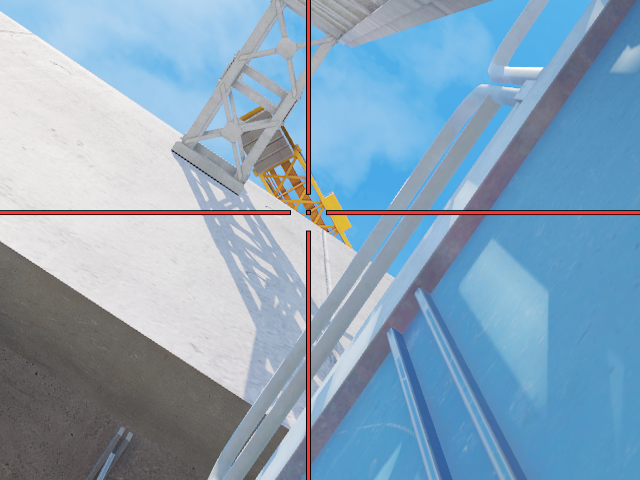
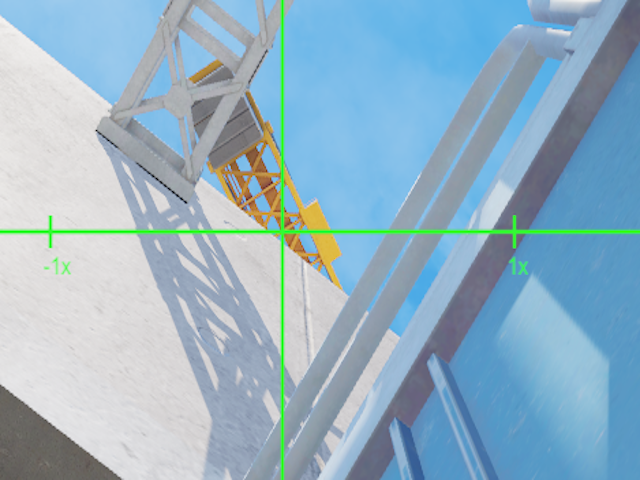
improved with some vertigo setpos and pos thirdperson

diff --git a/app/src/data/maps/vertigo/lineups.ts b/app/src/data/maps/vertigo/lineups.ts
@@ -127,6 +127,8 @@ export const vertigoLineups = [
       x: 567,
       y: 765,
     },
+    setPos:
+      "setpos -880.020630 -1295.968628 11711.871094;setang -71.997749 53.807880 0.000000",
   },
   {
     name: "A behind default from ramp",
@@ -205,6 +207,8 @@ export const vertigoLineups = [
       x: 426,
       y: 827,
     },
+    setPos:
+      "setpos -1418.033447 -1599.968750 11552.871094;setang -81.185326 55.893276 0.000000",
   },
   {
     name: "B site from t",
